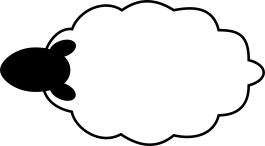
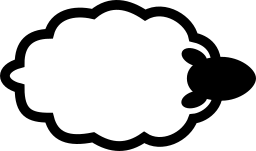
add sheep sprite direction and drawing

diff --git a/app/display.js b/app/display.js
@@ -1,7 +1,7 @@
 //Possible variables needed: canvas, ctx, global graphics settings
 //Modular data isn't stored here, it's passed in
 
-let ctx, camera, mapPattern;
+let ctx, camera, mapPattern, sheepSprite;
 
 /*
 Constant Data that describes sprite info
@@ -40,7 +40,7 @@ let displayManager = (function(){
 			mapPattern = ctx.createPattern(mapImage, "repeat");
 		}
         
-        let sheepSprite = new Image();
+        sheepSprite = new Image();
         sheepSprite.src = "app/resources/sheep.png";
 		
 		/*
@@ -109,25 +109,38 @@ let displayManager = (function(){
 	}
     
     function drawSheep(sheepObj){
+        /*
         ctx.beginPath();
 		ctx.arc(sheepObj.x, sheepObj.y, radius, 0, 2 * Math.PI, false);
         ctx.fillStyle = 'white';
 		ctx.fill();
-		//ctx.stroke();
+        */
+        let sprite = {
+            src: sheepSprite,
+            width: 256,
+            height: 151,
+            drawWidth: 55,
+            drawHeight: 35
+        }
+        drawSprite(sheepObj, sprite);
     }
     
     function drawSprite(drawObj, sprite){
+        ctx.translate(drawObj.x, drawObj.y);
+        ctx.rotate(drawObj.angle)
         ctx.drawImage(
                 sprite.src,                     // spritesheet
                 0,                              // x pos on spritesheet
                 0,                              // y pos on spritesheet
                 sprite.width,                   // width on spritesheet
                 sprite.height,                  // height on spritesheet
-                drawObj.x - drawObj.width / 2,  // top left corner x on canvas
-                drawObj.y - drawObj.height / 2, // top left corner y on canvas
-                drawObj.width,                  // width on canvas
-                drawObj.height                  // height on canvas
+                -sprite.drawWidth / 2,  // top left corner x on canvas
+                -sprite.drawHeight / 2, // top left corner y on canvas
+                sprite.drawWidth,                  // width on canvas
+                sprite.drawHeight                  // height on canvas
             );
+        ctx.rotate(-drawObj.angle)
+        ctx.translate(-drawObj.x, -drawObj.y);
     }
 	
 	return {

diff --git a/app/gameManager.js b/app/gameManager.js
@@ -111,6 +111,7 @@ let gameManager = (function(){
 				 if (calcVectorDistance(getVectortoPlayer(closestPlayer, sheep[i].x, sheep[i].y)) < 500) {
 					 sheep[i].x += vector.x;
 					 sheep[i].y += vector.y;
+                     sheep[i].angle = Math.atan2(vector.y, vector.x);
 					 //network.updateSheep(sheep[i], i);
 					 network.appendSheepPacket(sheepPacket, sheep[i], i);
 				 }
